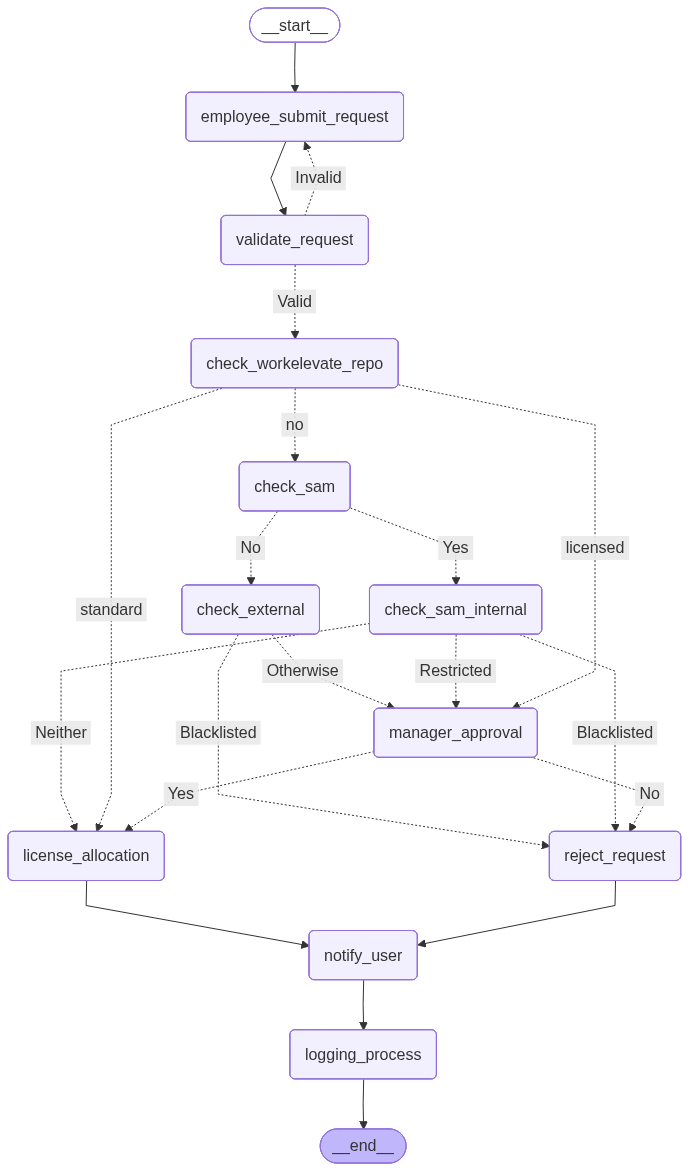
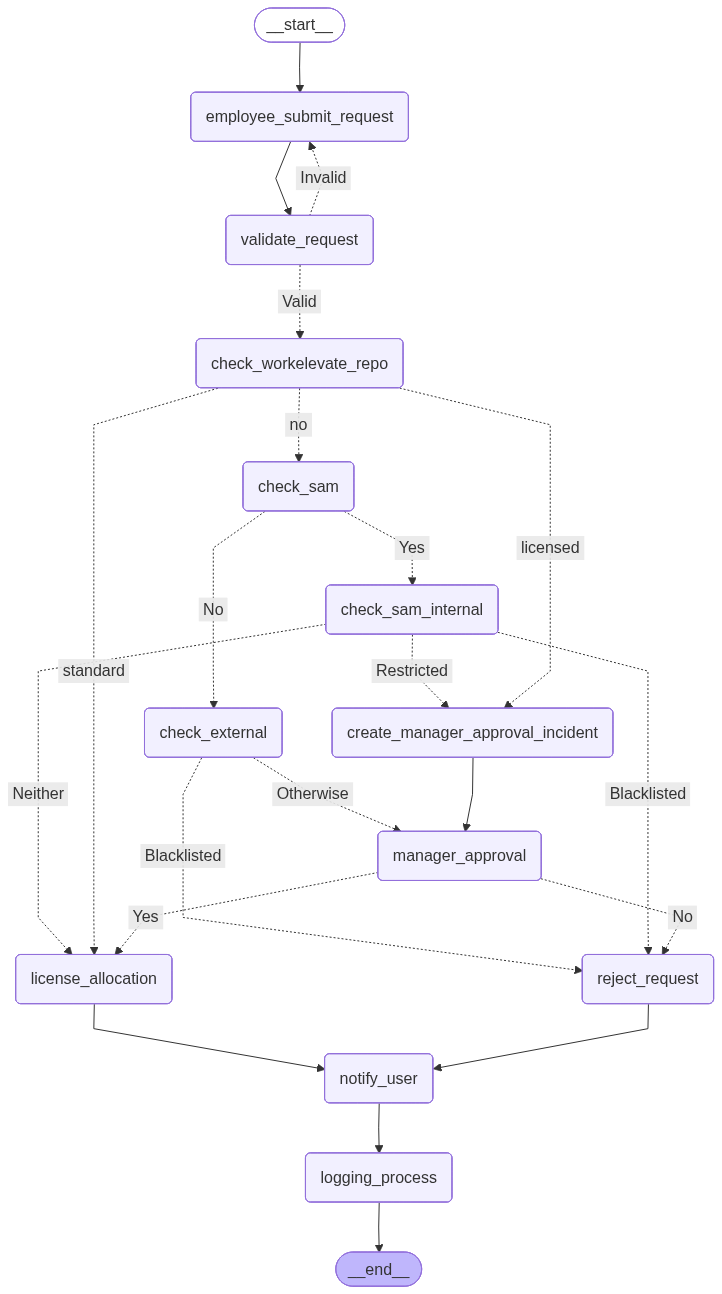
Fixed raise incident functionality

diff --git a/agent/nodes/manager_approval_node.py b/agent/nodes/manager_approval_node.py
@@ -5,51 +5,10 @@ from requests.auth import HTTPBasicAuth
 
 load_dotenv()
 
-def raise_manager_approval_incident(user_sys_id, software_name, description):
-    print("---------------------------------------------------------------------------")
-    print("Approval request (case-2: Manager approval required).")
-    instance = os.getenv("SERVICENOW_INSTANCE")
-    username = os.getenv("SERVICENOW_USERNAME")
-    password = os.getenv("SERVICENOW_PASSWORD")
-
-    url = f"{instance}/api/now/table/incident"
-
-    payload = {
-        "short_description": f"Manager approval required for {software_name}",
-        "description": description,
-        "caller_id": user_sys_id,
-        "category": "software",
-        "subcategory": "installation"
-    }
-
-    response = requests.post(url, json=payload, auth=HTTPBasicAuth(username,password), headers={"Content-Type": "application/json"})
-    return response.json()
-
 def manager_approval_node(state):
     requester_id = state["requester_id"]
     software_name = state["software_requested"]
-    user_email = state["requester_email"]
-    user_sys_id = state["requester_sys_id"]
     software_source = state["software_source"]
-    software_type = state["software_type"]
-    incident_raised = state["incident_raised"]
-    state["is_request_valid"] = True
-
-    description = (f"User has requested installation of {software_name}. "
-                   f"The software is classified as {software_type} and requires manager approval. "
-                   f"The software is detected in {software_source} repository. "
-                   f"Software installation is requested by : {requester_id} - {user_email}")
-    
-    state["incident_description"] = description
-
-    manager_approval_condition = ((software_source == "workelevate" and software_type == "licensed") or 
-    (software_source == "sam" and state["is_software_restricted"] is True and state["is_software_blacklisted"] is False))
-
-    if manager_approval_condition and incident_raised is False:
-        print("Just before raising ticket")
-        incident = raise_manager_approval_incident(user_sys_id, software_name, description)
-        state["incident_raised"] = True
-        print(f"Incident for manager approval raised successfully : ")
     
     manager_response = interrupt(
         value = {

diff --git a/agent/nodes/create_manager_approval_incident_node.py b/agent/nodes/create_manager_approval_incident_node.py
@@ -1,0 +1,55 @@
+import os, requests
+from requests.auth import HTTPBasicAuth
+
+def raise_manager_approval_incident(user_sys_id, software_name, description):
+    print("---------------------------------------------------------------------------")
+    print("Approval request (case-2: Manager approval required).")
+    instance = os.getenv("SERVICENOW_INSTANCE")
+    username = os.getenv("SERVICENOW_USERNAME")
+    password = os.getenv("SERVICENOW_PASSWORD")
+
+    url = f"{instance}/api/now/table/incident"
+
+    payload = {
+        "short_description": f"Manager approval required for {software_name}",
+        "description": description,
+        "caller_id": user_sys_id,
+        "category": "software",
+        "subcategory": "installation"
+    }
+
+    response = requests.post(url, json=payload, auth=HTTPBasicAuth(username,password), headers={"Content-Type": "application/json"})
+    return response.json()
+
+
+def create_manager_approval_incident_node(state):
+    requester_id = state["requester_id"]
+    software_name = state["software_requested"]
+    user_email = state["requester_email"]
+    user_sys_id = state["requester_sys_id"]
+    software_source = state["software_source"]
+    software_type = state["software_type"]
+
+    state["is_request_valid"] = True
+
+    description = (
+        f"User has requested installation of {software_name}. "
+        f"The software is classified as {software_type} and requires manager approval. "
+        f"The software is detected in {software_source} repository. "
+        f"Software installation is requested by: {requester_id} - {user_email}"
+    )
+
+    state["incident_description"] = description
+
+    needs_approval = (
+        (software_source == "workelevate" and software_type == "licensed")
+        or (software_source == "sam" and state["is_software_restricted"] and not state["is_software_blacklisted"])
+    )
+
+    if needs_approval and not state["incident_raised"]:
+        print("Creating Manager Approval Incident")
+        incident = raise_manager_approval_incident(user_sys_id, software_name, description)
+        state["incident_raised"] = True
+        print(f"Incident created: {incident.get('result', {}).get('number', 'invalid')}")
+
+    return state

diff --git a/agent/workflow.py b/agent/workflow.py
@@ -7,6 +7,7 @@ from agent.nodes.check_workelevate_repo_node import check_workelevate_repo_node
 from agent.nodes.check_sam_node import check_sam_node
 from agent.nodes.check_sam_internal_node import check_sam_internal_node
 from agent.nodes.check_external_node import check_external_node
+from agent.nodes.create_manager_approval_incident_node import create_manager_approval_incident_node
 from agent.nodes.manager_approval_node import manager_approval_node
 from agent.nodes.reject_request_node import reject_request_node
 from agent.nodes.license_allocation_node import license_allocation_node
@@ -64,6 +65,7 @@ def build_graph():
     graph.add_node("check_sam", check_sam_node)
     graph.add_node("check_sam_internal", check_sam_internal_node)
     graph.add_node("check_external", check_external_node)
+    graph.add_node("create_manager_approval_incident", create_manager_approval_incident_node)
     graph.add_node("manager_approval", manager_approval_node)
     graph.add_node("reject_request", reject_request_node)
     graph.add_node("license_allocation", license_allocation_node)
@@ -73,6 +75,7 @@ def build_graph():
     graph.add_edge(START, "employee_submit_request")
     graph.add_edge("employee_submit_request", "validate_request")
     graph.add_edge("reject_request", "notify_user")
+    graph.add_edge("create_manager_approval_incident", "manager_approval")
     graph.add_edge("license_allocation", "notify_user")
     graph.add_edge("notify_user", "logging_process")
 
@@ -91,7 +94,7 @@ def build_graph():
         {
             "no": "check_sam",
             "standard": "license_allocation",
-            "licensed": "manager_approval"
+            "licensed": "create_manager_approval_incident"
         }
     )
 
@@ -108,7 +111,7 @@ def build_graph():
         "check_sam_internal",
         route_after_check_sam_internal,
         {
-            "Restricted": "manager_approval",
+            "Restricted": "create_manager_approval_incident",
             "Blacklisted": "reject_request",
             "Neither": "license_allocation"
         }

diff --git a/agent/nodes/license_allocation_node.py b/agent/nodes/license_allocation_node.py
@@ -47,6 +47,6 @@ def license_allocation_node(state):
         if state["manager_decision"] == "approved":
             print("Wrongly reached License allocation")
         incident = raise_license_allocation_incident(user_sys_id, software_name, description)
-        print(f"Incident for license allocation raised successfully :")
+        print(f"Incident for license allocation raised successfully : {incident.get("result", {}).get("number", "invalid")}")
 
     return state
